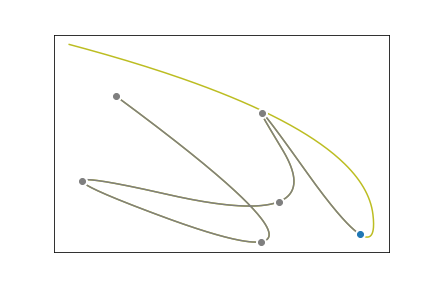
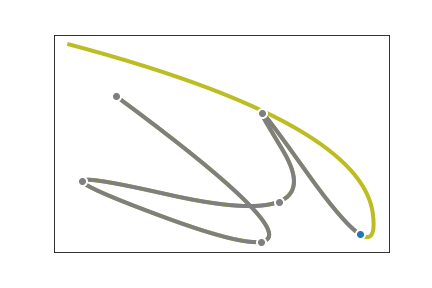
Linewidth update

diff --git a/metavid.py b/metavid.py
@@ -85,7 +85,7 @@ class metavid:
 				plt.plot(
 					olvSplineCoord[0,:],
 					olvSplineCoord[1,:], 
-					c="tab:olive"
+					c="tab:olive", linewidth = 4
 					)
 	            
 	            # Gray Spline
@@ -98,7 +98,7 @@ class metavid:
 				plt.plot(
 					grySplineCoord[0,:],
 					grySplineCoord[1,:],
-					c="tab:gray"
+					c="tab:gray", linewidth = 4
 					)
 			else:
 				plt.plot(
